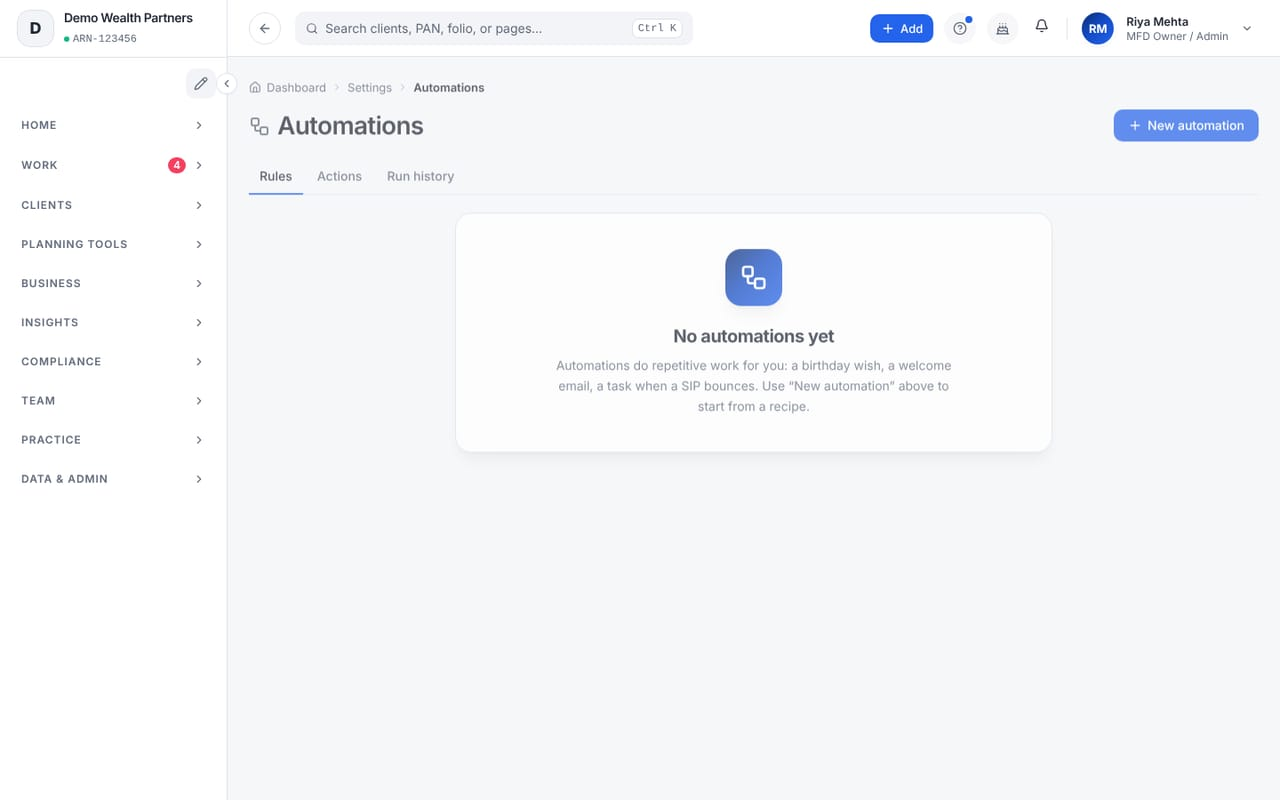
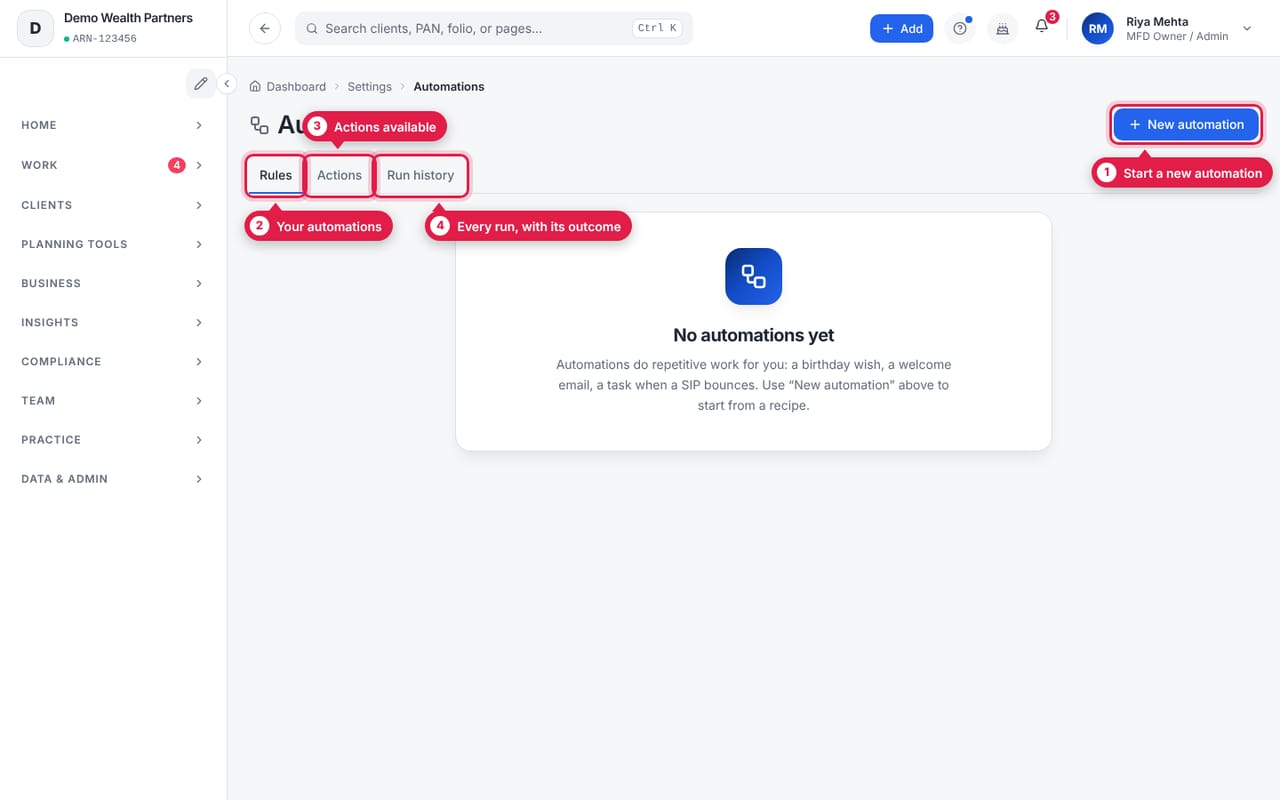
KB: subscribers only (404 otherwise) + Automations/Trail Forecast screenshots (#27)
* KB: highlighted screenshots for Automations and Trail Forecast

Claude-Session: https://claude.ai/code/session_011cujYos8nEPTya6AXVkzSb

* KB: visible only to signed-in users with an active subscription; 404 for everyone else

Gate in knowledge-base layout and the image route (lib/kb/access.ts); remove
the KB from the sitemap and the public site's links.

Claude-Session: https://claude.ai/code/session_011cujYos8nEPTya6AXVkzSb

---------

diff --git a/src/app/sitemap.ts b/src/app/sitemap.ts
@@ -1,36 +1,20 @@
 import type { MetadataRoute } from "next";
-import { loadKbSlugs } from "@/lib/kb/articles";
-import { loadHelpTree } from "@/lib/kb/help";
 import { SITE_URL } from "@/lib/landing/links";
 import { SOLUTION_PAGES } from "@/lib/landing/solutions";
 import { BLOG_POSTS } from "@/lib/landing/blog";
 
 /**
  * Sitemap for every public, indexable page: the homepage, the /solutions
- * pages, the blog, the legal pages and every published Knowledge Base category, folder and article.
+ * pages, the blog and the legal pages (the Knowledge Base is for subscribers only).
  * Login, sign-up and the app itself are left out on purpose.
  */
-export default async function sitemap(): Promise<MetadataRoute.Sitemap> {
-  // The KB lives in the database; a sitemap must still answer if it is unreachable.
-  const kb = await loadKbSlugs().catch(() => [] as Awaited<ReturnType<typeof loadKbSlugs>>);
-  const tree = await loadHelpTree().catch(() => [] as Awaited<ReturnType<typeof loadHelpTree>>);
+export default function sitemap(): MetadataRoute.Sitemap {
   return [
     { url: SITE_URL, changeFrequency: "weekly", priority: 1 },
     { url: `${SITE_URL}/solutions`, changeFrequency: "monthly", priority: 0.9 },
     ...SOLUTION_PAGES.map((p) => ({ url: `${SITE_URL}/solutions/${p.slug}`, changeFrequency: "monthly" as const, priority: 0.9 })),
     { url: `${SITE_URL}/blog`, changeFrequency: "weekly", priority: 0.8 },
     ...BLOG_POSTS.map((p) => ({ url: `${SITE_URL}/blog/${p.slug}`, lastModified: p.published, changeFrequency: "monthly" as const, priority: 0.7 })),
-    { url: `${SITE_URL}/knowledge-base`, changeFrequency: "weekly", priority: 0.7 },
-    ...tree.flatMap((c) => [
-      { url: `${SITE_URL}/knowledge-base/category/${c.slug}`, changeFrequency: "weekly" as const, priority: 0.6 },
-      ...c.folders.map((f) => ({ url: `${SITE_URL}/knowledge-base/folder/${f.slug}`, changeFrequency: "weekly" as const, priority: 0.6 })),
-    ]),
-    ...kb.map((a) => ({
-      url: `${SITE_URL}/knowledge-base/${a.slug}`,
-      lastModified: a.publishedAt ?? undefined,
-      changeFrequency: "monthly" as const,
-      priority: 0.6,
-    })),
     { url: `${SITE_URL}/privacy`, changeFrequency: "yearly", priority: 0.2 },
     { url: `${SITE_URL}/terms`, changeFrequency: "yearly", priority: 0.2 },
     { url: `${SITE_URL}/refund`, changeFrequency: "yearly", priority: 0.2 },

diff --git a/public/landing/index.html b/public/landing/index.html
@@ -58,7 +58,6 @@
         <a href="#why">Why AINA</a>
         <a href="#solutions">Solutions</a>
         <a href="#blog">Blog</a>
-        <a href="/knowledge-base">Knowledge Base</a>
         <a href="#faq">FAQ</a>
         <a href="#contact">Contact</a>
       </div>
@@ -301,7 +300,7 @@
     <div class="w faq-wrap">
       <div class="eyebrow">FAQ</div>
       <h2>Questions MFDs ask us.</h2>
-      <p class="faq-sub">More in the <a href="https://crm.ainatech.in/blog">blog</a> and the <a href="https://crm.ainatech.in/knowledge-base">Knowledge Base</a>.</p>
+      <p class="faq-sub">More in the <a href="https://crm.ainatech.in/blog">blog</a>.</p>
       <div class="faq-list">
         <details><summary><span>01</span>What is the best CRM for mutual fund distributors in India?</summary><p>The right CRM for an MFD is one built around mutual fund work — CAMS and KFintech data, SIPs, families, client reviews, team tasks and compliance — not a generic sales pipeline. AINA CRM is built specifically for Indian Mutual Fund Distributors.</p></details>
         <details><summary><span>02</span>What is mutual fund software for distributors?</summary><p>It is software that helps a distributor manage client data, portfolios, SIPs, transactions, reports and servicing. AINA CRM combines this back-office data with a CRM for leads, meetings, tasks and business tracking.</p></details>
@@ -365,7 +364,6 @@
             <li><a href="https://wa.me/918200770942?text=Hi%2C%20I'd%20like%20a%20demo%20of%20Aina%20CRM%20for%20my%20MFD%20practice." target="_blank" rel="noopener">Book a Demo</a></li>
             <li><a href="https://chat.whatsapp.com/C6ttmFYUtxHA7GYna5YGcN" target="_blank" rel="noopener">Community</a></li>
             <li><a href="https://crm.ainatech.in/blog">Blog</a></li>
-            <li><a href="https://crm.ainatech.in/knowledge-base">Knowledge Base</a></li>
             <li><a href="https://crm.ainatech.in/login">Log in</a></li>
             <li><a href="https://crm.ainatech.in/privacy">Privacy</a></li>
             <li><a href="https://crm.ainatech.in/terms">Terms</a></li>

diff --git a/src/app/api/kb/image/[id]/route.ts b/src/app/api/kb/image/[id]/route.ts
@@ -2,7 +2,7 @@ import { handleApiError } from "@/lib/api/error-handler";
 /**
  * GET /api/kb/image/[id]?i=<index> — a Knowledge Base screenshot.
  *
- * PUBLIC: the Knowledge Base is open, so screenshots need no session. The
+ * Same gate as the pages (signed in, live subscription): 404 otherwise. The
  * storage key is still looked up server-side from the article's own
  * `screenshots` array (never trusted from the query string) and only for a
  * PUBLISHED article, then 302'd to a short-lived presigned URL — so the S3
@@ -13,12 +13,14 @@ import { NextRequest, NextResponse } from "next/server";
 import { and, eq } from "drizzle-orm";
 import { withSystem } from "@/db/client";
 import { kbArticles, type KbScreenshot } from "@/db/schema";
+import { canReadKnowledgeBase } from "@/lib/kb/access";
 import { presignedGetUrl } from "@/lib/storage/s3";
 
 export const dynamic = "force-dynamic";
 
 export async function GET(req: NextRequest, { params }: { params: Promise<{ id: string }> }) {
   try {
+    if (!(await canReadKnowledgeBase())) return NextResponse.json({ error: "not found" }, { status: 404 });
     const { id } = await params;
     const idx = Number(req.nextUrl.searchParams.get("i") ?? "0");
     if (!Number.isInteger(idx) || idx < 0 || idx > 50) {

diff --git a/src/lib/kb/access.ts b/src/lib/kb/access.ts
@@ -1,0 +1,19 @@
+/**
+ * Who may read the Knowledge Base: a signed-in user whose firm has a live
+ * subscription (active or trial), or AINA platform staff. Everyone else —
+ * anonymous, lapsed, expired, never subscribed — is told the page does not exist
+ * (404, not a login redirect), so the help centre is not discoverable by URL.
+ */
+
+import { getSession } from "@/lib/auth/session";
+import { loadTenantLicense } from "@/lib/auth/license";
+import { isPlatformAdmin } from "@/lib/platform";
+
+export async function canReadKnowledgeBase(): Promise<boolean> {
+  const session = await getSession();
+  if (!session) return false;
+  if (isPlatformAdmin(session.roles)) return true;
+  if (!session.tenantId) return false;
+  const lic = await loadTenantLicense(session.tenantId, session.roles);
+  return lic.status === "active" || lic.status === "trial";
+}

diff --git a/src/app/knowledge-base/layout.tsx b/src/app/knowledge-base/layout.tsx
@@ -3,11 +3,15 @@
  * floating pill navbar and footer. (kb.css is scoped to .kb-site — see the note there.)
  */
 
+import { notFound } from "next/navigation";
 import "./kb.css";
+import { canReadKnowledgeBase } from "@/lib/kb/access";
 import { KbNav } from "@/components/kb/KbNav";
 import { KbFooter } from "@/components/kb/KbFooter";
 
-export default function KnowledgeBaseLayout({ children }: { children: React.ReactNode }) {
+// Gated per request (session cookie), so no page under here is statically cached.
+export default async function KnowledgeBaseLayout({ children }: { children: React.ReactNode }) {
+  if (!(await canReadKnowledgeBase())) notFound();
   return (
     <div className="kb-site">
       <link rel="preconnect" href="https://fonts.googleapis.com" />

diff --git a/src/components/landing/SiteChrome.tsx b/src/components/landing/SiteChrome.tsx
@@ -15,7 +15,6 @@ export const SITE_NAV: [string, string][] = [
   ["Why AINA", "/#why"],
   ["Solutions", "/solutions"],
   ["Blog", "/blog"],
-  ["Knowledge Base", "/knowledge-base"],
   ["FAQ", "/#faq"],
   ["Contact", "/#contact"],
 ];
@@ -51,7 +50,6 @@ const FOOTER_LINKS: [string, string][] = [
   ["Book a Demo", DEMO_URL],
   ["Community", COMMUNITY_URL],
   ["Blog", "/blog"],
-  ["Knowledge Base", "/knowledge-base"],
   ["Log in", "/login"],
   ["Privacy", "/privacy"],
   ["Terms", "/terms"],

diff --git a/CLAUDE.md b/CLAUDE.md
@@ -1057,8 +1057,12 @@ check-in, investor session). Provisioning `lib/templates/whatsapp-provision.ts`.
 ## Knowledge Base — the public help centre
 
 `/knowledge-base` (2026-10-29, migration 0247) is a help centre in the shape of
-a Freshdesk solutions site: **Category → Folder → Article**, all public, no
-login. The super admin runs it at `/super-admin/kb-articles` (articles) and
+a Freshdesk solutions site: **Category → Folder → Article**, for signed-in users
+of a firm with an active / trial subscription only (2026-10-30, `lib/kb/access.ts`,
+checked in `knowledge-base/layout.tsx` and the image route): anyone else — anonymous,
+lapsed, expired — gets a 404, not a login redirect. Platform staff pass. Middleware
+keeps the paths public only so the 404 can render; the KB is out of the sitemap and
+the public site's links. The static `/kb/*.jpg` files stay unauthenticated. The super admin runs it at `/super-admin/kb-articles` (articles) and
 `/super-admin/kb-articles/structure` (categories and folders); APIs under
 `/api/super-admin/kb-articles` and `/api/super-admin/kb-structure`.
 
@@ -1066,7 +1070,7 @@ login. The super admin runs it at `/super-admin/kb-articles` (articles) and
   `kb_folders`, and `kb_articles.folder_id`. The old KAIZEN stories were moved
   into a "KAIZEN › KAIZEN stories" folder by the migration. Deleting a
   category or folder never deletes articles — they become unfiled.
-- **Public routes**: `/knowledge-base` (home, search box, category cards),
+- **Routes**: `/knowledge-base` (home, search box, category cards),
   `/category/[slug]`, `/folder/[slug]`, `/search?q=`, and the article at
   `/knowledge-base/[slug]`. `category`, `folder` and `search` are static
   segments, so an article slug may not be one of them (`KB_RESERVED_SLUGS`).
